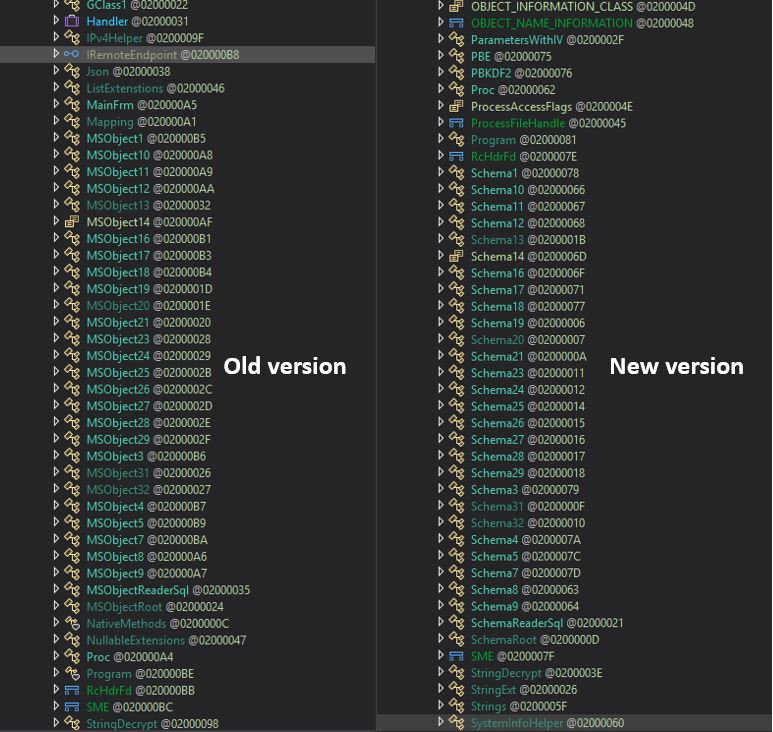
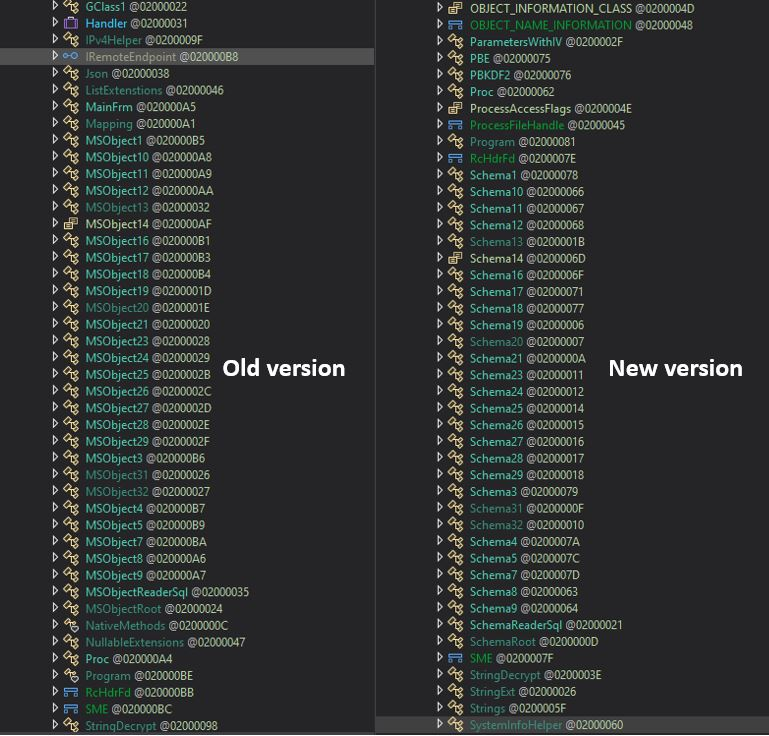
Third commit

Changed region(s): [[0.0, 0.0, 1.0, 1.0], [0.3121, 0.4809, 0.4369, 0.5109], [0.2185, 0.4809, 0.2497, 0.5109]]

diff --git a/_posts/2023-12-29-MetaStealer-Part-2.md b/_posts/2023-12-29-MetaStealer-Part-2.md
@@ -47,7 +47,7 @@ The reason why I brought this up is how easily it can be exploited with just a f
   </iframe>
 </div>
 
-# MetaStealer Part 2 Technical Analysis
+# MetaStealer Part 2: Technical Analysis
 
 In November 2023, I released the [writeup](https://russianpanda.com/2023/11/20/MetaStealer-Redline's-Doppelganger/) on MetaStealer. However, soon after its release, the malware developer made another update that changed the class names, string encryption algorithm, binary description, and file icon. 
 
@@ -55,7 +55,8 @@ MetaStealer new version is approximately 368KB in size with the binary descripti
 
 The logo change:
 
-![newlogo.png](/images/MetaStealerPart2/newlogo.JPG)
+![newlogo.png](/images/MetaStealerPart2/newlogo.png)
+
 If previously, MetaStealer used "Entity" for class names; now it's using "Schema" and "TreeObject" to store data and configurations instead of **MSValue**.
 
 ![class_names_comp.jpg](/images/MetaStealerPart2/class_names_comp.JPG)
